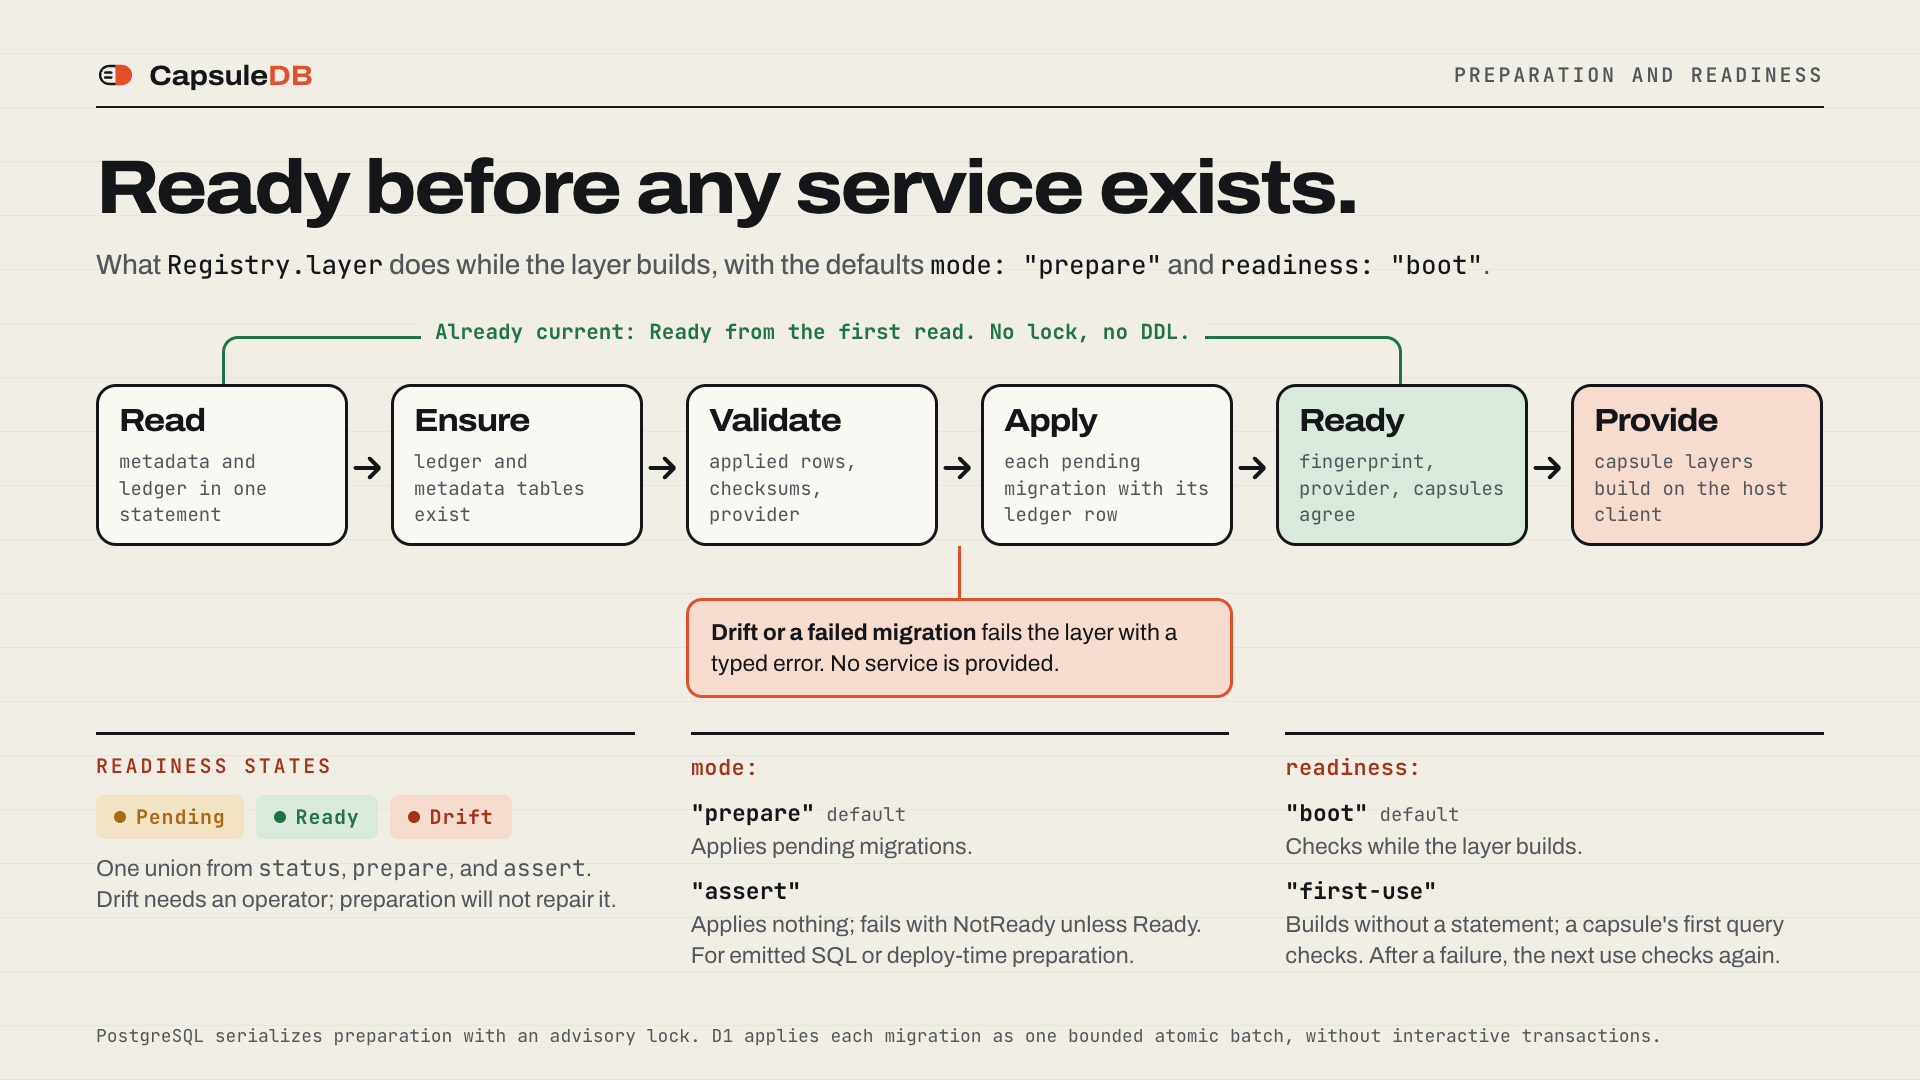
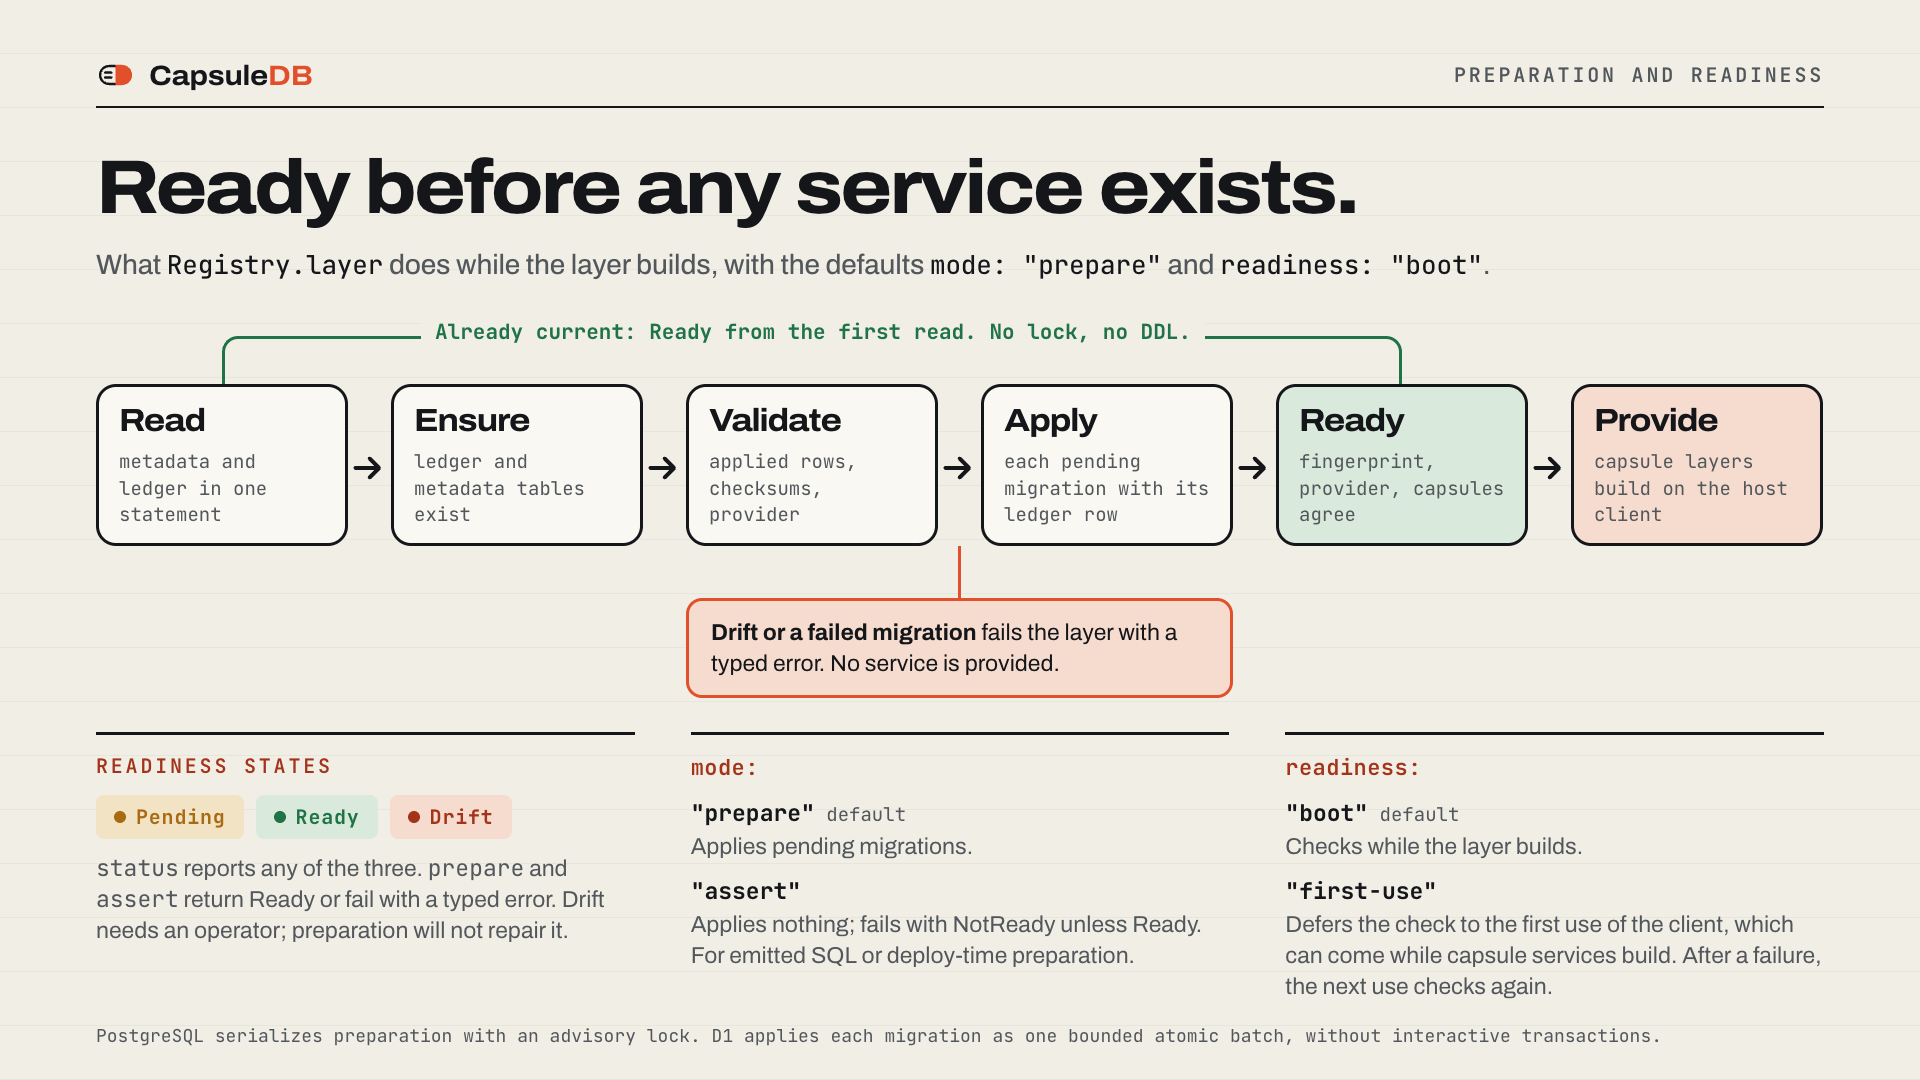
docs(media): correct readiness still claims
The preparation and readiness still said status, prepare, and assert
return one union, but only status reports Pending, Ready, or Drift;
prepare and assert return Ready or fail with a typed error. It also said
first-use builds without a statement, yet the gated client is provided to
the capsule layers, so a layer that queries while it builds runs the check
then. The still, the host guide, and the media script now say so, and the
source test checks the return types and gate placement in Registry.ts.

Changed region(s): [[0.0312, 0.7944, 0.3125, 0.8861], [0.6562, 0.825, 0.9375, 0.9167]]

diff --git a/media/tests/source.test.ts b/media/tests/source.test.ts
@@ -2,6 +2,7 @@ import { describe, expect, test } from "bun:test";
 import { readFileSync } from "node:fs";
 import { join } from "node:path";
 import { repository } from "../scripts/projects";
+import { visibleStrings } from "../scripts/strings";
 import {
   capsuleDefinition,
   deferredReadiness,
@@ -66,6 +67,38 @@ describe("on-screen code matches the repository", () => {
       const module = profile.replace(/\.profile$/, "");
       expect(read(`src/${module}.ts`)).toMatch(/^export const profile\b/m);
     }
+  });
+
+  test("readiness states and results match Registry and Readiness", () => {
+    const union = read("src/Readiness.ts").match(
+      /export const Readiness = Schema\.TaggedUnion\(\{([\s\S]*?)\n\}\);/,
+    )?.[1];
+    const tags = [...(union ?? "").matchAll(/^ {2}(\w+): \{/gm)].flatMap(([, tag]) => tag ?? []);
+    expect(tags.toSorted()).toEqual(["Drift", "Pending", "Ready"]);
+    const still = visibleStrings().get("readiness-still") ?? [];
+    for (const tag of tags) expect(still).toContain(tag);
+
+    // `status` reports every state; `prepare` and `assert` succeed only with `Ready`.
+    const registry = read("src/Registry.ts");
+    const signature = (name: string) =>
+      registry.match(
+        new RegExp(`export const ${name} = \\(\\s*options: [^)]*\\): Effect\\.Effect<(\\w+),`),
+      )?.[1];
+    expect(signature("status")).toBe("Readiness");
+    expect(signature("prepare")).toBe("Ready");
+    expect(signature("assert")).toBe("Ready");
+    expect(registry).toContain('if (readiness._tag === "Ready") return readiness;');
+  });
+
+  test("first-use gates the client the capsule layers build with", () => {
+    // The gated client is provided to the merged service layers, so a layer that queries while it
+    // builds runs the check then; only success is remembered, so a failure is retried.
+    expect(read("src/Registry.ts")).toMatch(
+      /options\.readiness === "first-use"\s*\?\s*merged\.pipe\(\s*Layer\.provide\([\s\S]*?GatedClient\.make\(/,
+    );
+    expect(read("src/internal/gated-client.ts")).toMatch(
+      /outsideTransaction\.pipe\(\s*Effect\.mapError\(asSqlError\),\s*Effect\.map\(\(\) => \{\s*ready = true;/,
+    );
   });
 
   test("the reference namespace is the ID's derivation", () => {

diff --git a/media/src/scenes/readiness-still/markup.tsx b/media/src/scenes/readiness-still/markup.tsx
@@ -178,9 +178,10 @@ export const readinessStill: SceneMarkup = {
             <Badge tone="seal">Drift</Badge>
           </div>
           <div style={{ fontSize: 23, lineHeight: 1.35, color: "var(--cx-soft)" }}>
-            One union from <span className="cx-mono">status</span>,{" "}
-            <span className="cx-mono">prepare</span>, and <span className="cx-mono">assert</span>.
-            Drift needs an operator; preparation will not repair it.
+            <span className="cx-mono">status</span> reports any of the three.{" "}
+            <span className="cx-mono">prepare</span> and <span className="cx-mono">assert</span>{" "}
+            return Ready or fail with a typed error. Drift needs an operator; preparation will not
+            repair it.
           </div>
         </Card>
         <Card title="mode:" option>
@@ -197,8 +198,8 @@ export const readinessStill: SceneMarkup = {
             Checks while the layer builds.
           </Option>
           <Option name={'"first-use"'}>
-            Builds without a statement; a capsule's first query checks. After a failure, the next
-            use checks again.
+            Defers the check to the first use of the client, which can come while capsule services
+            build. After a failure, the next use checks again.
           </Option>
         </Card>
       </div>

diff --git a/docs/host-applications.md b/docs/host-applications.md
@@ -121,15 +121,16 @@ Registry.layer({
 });
 ```
 
-`readiness: "first-use"` builds the layer without a statement. Capsules receive
-the host client wrapped so their first connection, reservation, or transaction
-runs the `mode` check once; concurrent first uses share it and a success is kept
-for the layer's lifetime. A failure reaches the capsule's query as a `SqlError`
-whose cause is the registry error (`NotReady` here), and the next use checks
-again, so a deploy that finishes preparing heals running instances without a
-restart. The check runs outside any transaction the caller has open. Composition
-errors, such as a duplicate capsule, still fail the build. Tests and local
-development can keep `mode: "prepare"` with either readiness.
+`readiness: "first-use"` builds the layer without a statement of its own.
+Capsules receive the host client wrapped so their first connection, reservation,
+or transaction runs the `mode` check once, even when that use comes from a
+capsule layer that queries while it builds; concurrent first uses share it and a
+success is kept for the layer's lifetime. A failure reaches the capsule's query
+as a `SqlError` whose cause is the registry error (`NotReady` here), and the
+next use checks again, so a deploy that finishes preparing heals running
+instances without a restart. The check runs outside any transaction the caller
+has open. Composition errors, such as a duplicate capsule, still fail the build.
+Tests and local development can keep `mode: "prepare"` with either readiness.
 
 ## Destructive authorization
 

diff --git a/media/launches/introducing-capsuledb/SCRIPT.md b/media/launches/introducing-capsuledb/SCRIPT.md
@@ -52,7 +52,7 @@ All use the film's scene system and render compositor, exported losslessly from 
 | ----------------------------- | --------- | ------------------------------------------------------------------------------------------------------------------------------ |
 | `capsule-anatomy.png`         | 1920×1080 | The reference capsule's tables, migrations, and service; its derived identity; dialects; the service boundary.                 |
 | `shared-database.png`         | 1920×1080 | Three example capsules and the host's own persistence share one host `SqlClient` and database, with CapsuleDB's ledger tables. |
-| `preparation-readiness.png`   | 1920×1080 | `Registry.layer`'s preparation path and fast path, the readiness union, and the `mode` and `readiness` options.                |
+| `preparation-readiness.png`   | 1920×1080 | `Registry.layer`'s preparation path and fast path, the states `status` reports, and the `mode` and `readiness` options.        |
 | `og.png`                      | 1200×630  | Mark, wordmark, **Ship persistence with your package.**, install line, repository.                                             |
 | `github-social-preview.png`   | 1280×640  | The same card at GitHub's social preview size.                                                                                 |
 | `capsuledb-launch-poster.jpg` | 1920×1080 | The settled reveal at 10.6 seconds, extracted from the rendered film.                                                          |
